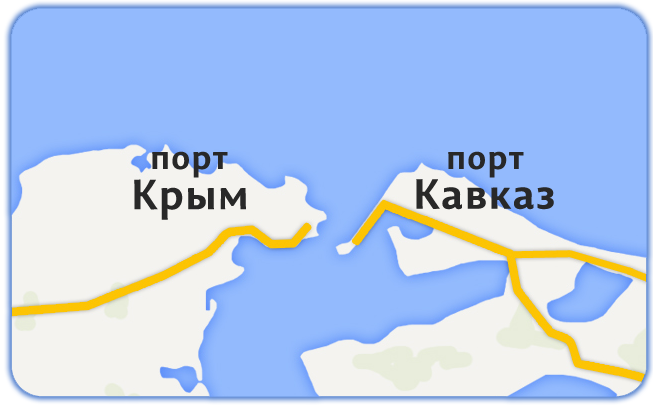
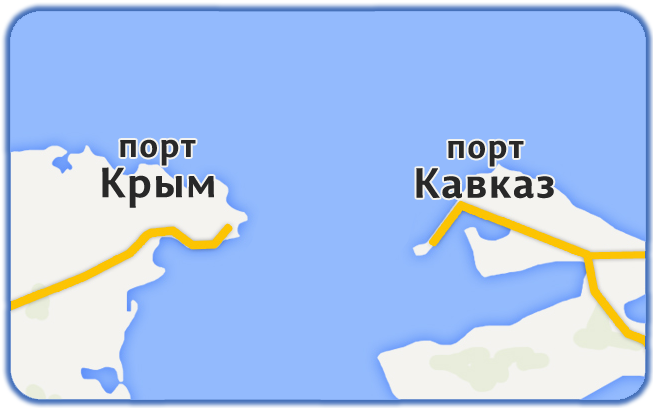
Update

diff --git a/app/app/route/route.html b/app/app/route/route.html
@@ -1,10 +1,10 @@
  <!--Test = {{route.test}}-->
 <br>
-<table>
+<!--<table>
     <tr>
         <td width=250 ng-repeat="currentRoute in route.allRoutes">
-    <li ng-click="route.clickRoute(currentRoute)">
-         <a href="#/app/category"><img src="img/route/{{currentRoute.name}}.png" title="Из порта Крым в порт Кавказ" alt="0" id="arrow1" class="arrow-krym"></a>
+    <span ng-click="route.clickRoute(currentRoute)">
+         <a href="#/app/category"><img src="img/route/{{currentRoute.name}}.png" title={{translate.currentRoute.name}} alt="0" id="arrow1" class="arrow-krym"></a>
        <a href="#/app/category" {{currentRoute.name}}>
             {{translation[currentRoute.name]}}
         </a> 
@@ -13,16 +13,15 @@
             <img ng-src="img/route/{{currentRoute.name}}.png"/>
             
         </a>
-    </li>
+    </span>
         </td>
     </tr>
-<table>
+<table>-->
  
     
-<!--    <li ng-click="route.clickRoute(1)">
-        <a href="#/app/category"><img src="img/route/krym_kavkaz.png" title="Из порта Крым в порт Кавказ" alt="0" id="arrow1" class="arrow-krym"></a>
-    </li>    
-<a href="#/app/category"><img src="img/route/kavkaz_krym.png" title="Из порта Кавказ в порт Крым" alt="0" id="arrow2" class="arrow-kavkaz" ng-click="route.clickRoute(currentRoute)"></a>-->
+        <a href="#/app/category" ng-click="route.clickRouteId(2)"><img src="img/route/krym_kavkaz.png" alt={{translation.krym_kavkaz}} class="arrow-krym"></a>
+    
+<a href="#/app/category" ng-click="route.clickRouteId(1)"><img src="img/route/kavkaz_krym.png" alt={{translation.kavkaz_krym}} class="arrow-kavkaz"></a>
 
 
 

diff --git a/app/app/cart/cart.html b/app/app/cart/cart.html
@@ -1,4 +1,4 @@
-Cart: {{cart.Cart}}
+<!--Cart: {{cart.Cart}}-->
 <!--Cart: {{cart.cart}}
 Cart: {{cart.cart.items[0]}}-->
 <br>
@@ -44,7 +44,7 @@ Cart: {{cart.cart.items[0]}}-->
                             <select ng-model="ticket.dob.year" ng-options="year for year in cart.years" ng-change="cart.updateDob(ticket)">       
                                 <option value="" selected="">Year</option>
                             </select>
-                            <select ng-model="ticket.dob.month" ng-options="month | currency for month in cart.months" ng-change="cart.updateDob(ticket)">
+                            <select ng-model="ticket.dob.month" ng-options="month for month in cart.months" ng-change="cart.updateDob(ticket)">
                                 <option value="" selected="">Month</option>
                             </select>
                             <select ng-model="ticket.dob.day" ng-options="day for day in ticket.days" ng-change="cart.updateDob(ticket)">

diff --git a/app/app/route/routeCtrl.js b/app/app/route/routeCtrl.js
@@ -11,21 +11,28 @@ function config($routeProvider) {
                 controller: 'routeCtrl',
                 controllerAs: 'route'
             });
-};
+}
+;
 
 function routeCtrl(RouteService, CartService, TestService, authFactory) {
     var vm = this;
     vm.allRoutes = RouteService.query();
-    
-    vm.testClick = function() {
+
+    vm.testClick = function () {
 //        console.log("testClick");
         //vm.test = TestService.getSalt("Hello world!");
         authFactory.logout();
-        
+
     };
 
     vm.clickRoute = function (route) {
         CartService.routeId = route.id;
     };
-};
+
+    vm.clickRouteId = function (id) {
+        CartService.routeId = id;
+    };
+
+}
+;
 

diff --git a/app/css/aStore.css b/app/css/aStore.css
@@ -70,26 +70,16 @@ button.disabled {
     padding-left: 100px;
 }
 
-/* ARROW1 ------------------------------------------------------------*/
-
-img#arrow1{
-    position: relative;
-    top: 255px;
-}
-
 img.arrow-krym{
-    left: 260px;
-}
-
-/* ARROW2 ------------------------------------------------------------*/
-
-img#arrow2{
+    left: 175px;
     position: relative;
-    top: 255px;
+    top: 305px;
 }
 
 img.arrow-kavkaz{
-    left: 270px;
+    left: 345px;
+    position: relative;
+    top: 305px;
 }
 
 #errorMsg {

diff --git a/app/app/order/order.html b/app/app/order/order.html
@@ -22,6 +22,6 @@
     </tbody>
 </table>
 
-<button ng-click="order.testRole()">test roles allowed</button>
+<!--<button ng-click="order.testRole()">test roles allowed</button>-->
 <br>
-res = {{order.res}}
+<!--res = {{order.res}}-->

diff --git a/app/app/ticket/ticket.html b/app/app/ticket/ticket.html
@@ -1,4 +1,4 @@
-Cart: {{ticket.Cart}}
+<!--Cart: {{ticket.Cart}}-->
 <br>
 <button class="btn btn-large" ng-click="ticket.gotoBack()">{{translation.back}}</button>
 <br>
